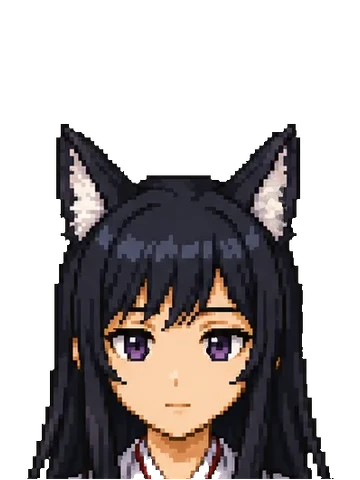
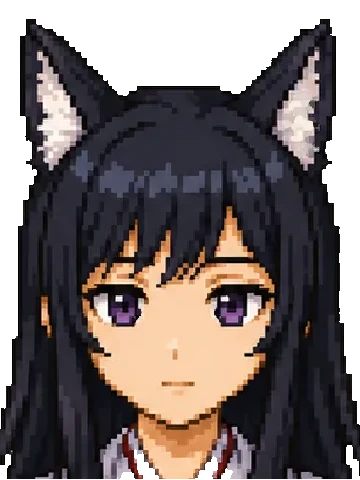
feat: 登場人物を里ごとに再構成・原作ロアの紹介文・ローディングを全環境で表示
- 登場人物: 酉花・イズナを大きいカード（ゲーム内の役どころ込みの長文）にし、
  以降は里ごとに3人ずつ（春・甲賀／夏・風魔／秋・雑賀／冬・伊賀）。
  紹介文はCryptoNinja公式ロア（cn-lore-mcp）＋ゲーム内の役割から執筆。
  里見出しの季節チップはゲーム内話しかけヒントと同じ配色
- 顔グラ14枚を高さ基準で再生成（nearest补間）。横広のイズナ・アウンは
  中央クロップで他キャラと顔の大きさを揃えた
- ローディング画面はprefers-reduced-motionでも表示する（進捗を伝える
  意味のある表示のため。本人環境=Windowsアニメ効果OFFで何も見えなかった
  問題の解決）。花の呼吸・花びら飛散などの装飾の動きだけ止める。
  見出しのスクロール出現も「フェードのみ」で全環境に出す

diff --git a/index.html b/index.html
@@ -287,27 +287,111 @@
       </section>
 
       <!-- ── 肆：登場人物 ──────────────────────── -->
+      <!-- 紹介文はCryptoNinja公式ロア（cn-lore-mcp・2026-08-04参照）＋ゲーム内の役どころ。
+           ロアの自由改変は公式ガイドラインで許容されているが、ここは原作準拠で書く -->
       <section class="section" id="chara">
         <h2 class="heading"><span class="heading__num">肆</span>登場人物</h2>
         <p class="section__lead">
           四つの里で出会う14人。話しかけると、それぞれの体の悩みを打ち明けてくれます。
         </p>
 
-        <ul class="chara-grid">
-          <li><img src="assets/face/torika.webp" alt="酉花（トリカ）" loading="lazy" /><span>酉花（トリカ）</span></li>
-          <li><img src="assets/face/izuna.webp" alt="イズナ" loading="lazy" /><span>イズナ</span></li>
-          <li><img src="assets/face/sakuya.webp" alt="咲耶（サクヤ）" loading="lazy" /><span>咲耶（サクヤ）</span></li>
-          <li><img src="assets/face/xiaolan.webp" alt="シャオラン" loading="lazy" /><span>シャオラン</span></li>
-          <li><img src="assets/face/nemu.webp" alt="ネム" loading="lazy" /><span>ネム</span></li>
-          <li><img src="assets/face/janome.webp" alt="蛇ノ目（ジャノメ）" loading="lazy" /><span>蛇ノ目（ジャノメ）</span></li>
-          <li><img src="assets/face/aum.webp" alt="アウン" loading="lazy" /><span>アウン</span></li>
-          <li><img src="assets/face/ibuki.webp" alt="イブキ" loading="lazy" /><span>イブキ</span></li>
-          <li><img src="assets/face/shiba.webp" alt="柴（シバ）" loading="lazy" /><span>柴（シバ）</span></li>
-          <li><img src="assets/face/nekomata.webp" alt="猫又（ねこまた）" loading="lazy" /><span>猫又（ねこまた）</span></li>
-          <li><img src="assets/face/benten.webp" alt="弁天（べんてん）" loading="lazy" /><span>弁天（べんてん）</span></li>
-          <li><img src="assets/face/anne.webp" alt="餡音（あんね）" loading="lazy" /><span>餡音（あんね）</span></li>
-          <li><img src="assets/face/yui.webp" alt="結（ゆい）" loading="lazy" /><span>結（ゆい）</span></li>
-          <li><img src="assets/face/hayate.webp" alt="ハヤテ" loading="lazy" /><span>ハヤテ</span></li>
+        <div class="chara-main">
+          <article class="chara-card">
+            <img src="assets/face/torika.webp" alt="酉花（トリカ）" loading="lazy" />
+            <div class="chara-card__body">
+              <span class="chara-card__role">主人公 ── 里をめぐるお薬屋さん</span>
+              <h3>酉花（トリカ）</h3>
+              <p>
+                伊賀の忍。得意の忍術は毒手裏剣で、名前は毒草トリカブトに由来──けれど本当は、花を育てることが好きな穏やかな女の子。毒と薬が紙一重なら、私は薬のほうを届けたい。畑を耕し、生薬を集め、処方を調合して、四つの里の「つらい」をひとつずつ癒やしてまわります。誕生日は8月9日、薬草の日。
+              </p>
+            </div>
+          </article>
+          <article class="chara-card">
+            <img src="assets/face/izuna.webp" alt="イズナ" loading="lazy" />
+            <div class="chara-card__body">
+              <span class="chara-card__role">案内役 ── 旅を見守る管狐使い</span>
+              <h3>イズナ</h3>
+              <p>
+                甲賀の忍で、宇迦の姉。管狐を操る秘術「飯綱の法」の使い手です。このゲームでは季節のどの里にも属さない案内役として、酉花の旅にそっと付き添います。困ったときに道をひらいてくれるのも、最後の報告を受け取ってくれるのも、この人。白と黒の小窓が出たら、それはイズナの声です。
+              </p>
+            </div>
+          </article>
+        </div>
+
+        <h3 class="chara-village" data-season="spring"><span>春</span>甲賀の里</h3>
+        <ul class="chara-grid chara-grid--bio">
+          <li>
+            <img src="assets/face/sakuya.webp" alt="咲耶（サクヤ）" loading="lazy" />
+            <span>咲耶（サクヤ）</span>
+            <p class="chara-bio">口寄せの術を操る、岩爺の孫。名は繁栄の女神コノハナサクヤヒメから。春の里で最初の依頼をくれる、収穫の知恵袋。</p>
+          </li>
+          <li>
+            <img src="assets/face/xiaolan.webp" alt="シャオラン" loading="lazy" />
+            <span>シャオラン</span>
+            <p class="chara-bio">口寄せでパンダの「リーリー」を呼び出す甲賀の忍。工房では調合の手ほどき役。頼れる里のお医者さん気質。</p>
+          </li>
+          <li>
+            <img src="assets/face/nemu.webp" alt="ネム" loading="lazy" />
+            <span>ネム</span>
+            <p class="chara-bio">絵筆の忍術「動植綵絵」を使う自由人。ひよこのピヨチとうさぎのウサピを連れて、遊び方をやさしく教えてくれます。</p>
+          </li>
+        </ul>
+
+        <h3 class="chara-village" data-season="summer"><span>夏</span>風魔の里</h3>
+        <ul class="chara-grid chara-grid--bio">
+          <li>
+            <img src="assets/face/janome.webp" alt="蛇ノ目（ジャノメ）" loading="lazy" />
+            <span>蛇ノ目（ジャノメ）</span>
+            <p class="chara-bio">白蛇の「オロチ」を口寄せする風魔の忍。どこか抜けていて、しばしばオロチに助けられている愛され者。</p>
+          </li>
+          <li>
+            <img src="assets/face/aum.webp" alt="アウン" loading="lazy" />
+            <span>アウン</span>
+            <p class="chara-bio">自らの体を巨大化させる怪力の忍で、アトザの弟。見た目は強面、夏バテには弱い。工房番もつとめます。</p>
+          </li>
+          <li>
+            <img src="assets/face/ibuki.webp" alt="イブキ" loading="lazy" />
+            <span>イブキ</span>
+            <p class="chara-bio">呪符を操る風魔の術者。相棒「ヤーマ」は本人の力量に合わせて姿が変わる決まりで、いまは愛らしい姿。</p>
+          </li>
+        </ul>
+
+        <h3 class="chara-village" data-season="autumn"><span>秋</span>雑賀の里</h3>
+        <ul class="chara-grid chara-grid--bio">
+          <li>
+            <img src="assets/face/shiba.webp" alt="柴（シバ）" loading="lazy" />
+            <span>柴（シバ）</span>
+            <p class="chara-bio">ふだんは犬の姿、いざとなれば忍術で人型に変化する水遁の使い手。薬を届けた人にだけ、本当の姿を見せてくれるかも。</p>
+          </li>
+          <li>
+            <img src="assets/face/nekomata.webp" alt="猫又（ねこまた）" loading="lazy" />
+            <span>猫又（ねこまた）</span>
+            <p class="chara-bio">影分身と妖刀村正を操る猫の忍。魚介類に目がない食いしん坊で、乾いた秋は喉の調子が気になるお年頃。</p>
+          </li>
+          <li>
+            <img src="assets/face/benten.webp" alt="弁天（べんてん）" loading="lazy" />
+            <span>弁天（べんてん）</span>
+            <p class="chara-bio">三味線と祝詞をたしなむ姐さん。頭領の孫市から里の管理を任されている、雑賀のまとめ役です。</p>
+          </li>
+        </ul>
+
+        <h3 class="chara-village" data-season="winter"><span>冬</span>伊賀の里</h3>
+        <ul class="chara-grid chara-grid--bio">
+          <li>
+            <img src="assets/face/anne.webp" alt="餡音（あんね）" loading="lazy" />
+            <span>餡音（あんね）</span>
+            <p class="chara-bio">団子の串を武器に影縫いの術を放つ、陽気なお調子者。寒い里に、あたたかい笑い声を響かせます。</p>
+          </li>
+          <li>
+            <img src="assets/face/yui.webp" alt="結（ゆい）" loading="lazy" />
+            <span>結（ゆい）</span>
+            <p class="chara-bio">桜吹雪の術で後方支援に徹する、岩爺の孫。前には出ないけれど、里のみんなをそっと支えるタイプ。</p>
+          </li>
+          <li>
+            <img src="assets/face/hayate.webp" alt="ハヤテ" loading="lazy" />
+            <span>ハヤテ</span>
+            <p class="chara-bio">鷹の「ナルカミ」を相棒にする、伊賀の師匠格。鷹の目で里を見渡しながら、冬の工房を守っています。</p>
+          </li>
         </ul>
 
         <p class="section__foot">
@@ -445,14 +529,8 @@
       //   ・回線が遅くても最長4秒で必ず打ち切る（ローディングに閉じ込めない）
       ;(function () {
         var curtain = document.getElementById('curtain')
-        var reduce = window.matchMedia('(prefers-reduced-motion: reduce)').matches
-
-        if (reduce) {
-          curtain.parentNode.removeChild(curtain)
-          document.body.classList.add('is-ready')
-          return
-        }
-
+        // ローディング画面は「進捗を伝える意味のある表示」なので、動きを減らす設定でも出す
+        // （2026-08-04本人判断で変更。花の呼吸・花びらの飛散などの装飾はCSS側のreduceで止まる）
         var flower = document.getElementById('curtainFlower')
         var label = document.getElementById('curtainSeason')
         var bar = document.getElementById('curtainBar')
@@ -533,8 +611,8 @@
       // 見出し・リード文が画面に入ったとき、下からすっと立ち上がる。
       // 隠すクラスはJSが動いてから付ける＝JS無効・IO非対応では最初から見えている
       ;(function () {
-        var reduce = window.matchMedia('(prefers-reduced-motion: reduce)').matches
-        if (reduce || !('IntersectionObserver' in window)) return
+        // 動きを減らす設定でも「フェードのみ」で出す（transformはCSSのreduce側で無効化）
+        if (!('IntersectionObserver' in window)) return
         var els = document.querySelectorAll('.heading, .section__lead, .section__foot')
         els.forEach(function (el) {
           el.classList.add('will-reveal')

diff --git a/style.css b/style.css
@@ -914,6 +914,98 @@ body[data-season='autumn'] { background-color: #1e1610; }
 body[data-season='winter'] { background-color: #14171a; }
 
 /* ── 肆：登場人物 ─────────────────────────────────── */
+
+/* 主役2人の大きいカード（酉花・イズナ） */
+.chara-main {
+  display: grid;
+  grid-template-columns: 1fr 1fr;
+  gap: clamp(14px, 2.5vw, 24px);
+  margin-bottom: clamp(28px, 5vw, 44px);
+}
+
+.chara-card {
+  display: flex;
+  gap: clamp(14px, 2vw, 20px);
+  padding: clamp(16px, 2.5vw, 24px);
+  background: rgba(42, 35, 26, 0.5);
+  border: 1px solid rgba(201, 162, 74, 0.4);
+  border-radius: 3px;
+}
+
+.chara-card img {
+  width: clamp(110px, 12vw, 150px);
+  aspect-ratio: 3 / 4;
+  object-fit: contain;
+  image-rendering: pixelated;
+  flex-shrink: 0;
+  border: 1px solid rgba(201, 162, 74, 0.3);
+  border-radius: 2px;
+  background: linear-gradient(180deg, rgba(42, 35, 26, 0.85), rgba(20, 17, 13, 0.85));
+}
+
+.chara-card__role {
+  display: block;
+  font-family: var(--font-display);
+  font-size: 0.72rem;
+  font-weight: 700;
+  letter-spacing: 0.12em;
+  color: var(--shu-light);
+  margin-bottom: 4px;
+}
+
+.chara-card__body h3 {
+  font-family: var(--font-display);
+  font-size: clamp(1.15rem, 2.6vw, 1.4rem);
+  color: var(--kin-light);
+  margin: 0 0 8px;
+}
+
+.chara-card__body p {
+  margin: 0;
+  font-size: 0.88rem;
+  line-height: 1.85;
+}
+
+/* 里ごとの小見出し。季節チップの配色はゲーム内の話しかけヒントと同じ
+   （春=ピンク／夏=青／秋=黄／冬=緑） */
+.chara-village {
+  display: flex;
+  align-items: center;
+  gap: 12px;
+  font-family: var(--font-display);
+  font-size: clamp(1.05rem, 2.4vw, 1.25rem);
+  color: var(--kinari);
+  margin: clamp(28px, 5vw, 40px) 0 14px;
+}
+
+.chara-village span {
+  font-size: 0.8em;
+  line-height: 1.7;
+  padding: 1px 11px;
+  border-radius: 2px;
+  border: 1px solid;
+}
+
+.chara-village[data-season='spring'] span { color: #e88aa8; border-color: rgba(232, 138, 168, 0.6); }
+.chara-village[data-season='summer'] span { color: #6fb1d8; border-color: rgba(111, 177, 216, 0.6); }
+.chara-village[data-season='autumn'] span { color: #d8b24a; border-color: rgba(216, 178, 74, 0.6); }
+.chara-village[data-season='winter'] span { color: #7cbf8e; border-color: rgba(124, 191, 142, 0.6); }
+
+/* 見出しの右に細罫を伸ばす（.headingと同じ意匠の弱い版） */
+.chara-village::after {
+  content: '';
+  flex: 1;
+  height: 1px;
+  background: linear-gradient(90deg, rgba(201, 162, 74, 0.3), transparent);
+}
+
+.chara-bio {
+  margin: 6px 0 0;
+  font-size: 0.78rem;
+  line-height: 1.75;
+  color: var(--muted);
+  text-align: left;
+}
 .chara-grid {
   list-style: none;
   margin: 0;
@@ -1156,6 +1248,15 @@ body[data-season='winter'] { background-color: #14171a; }
     grid-template-columns: repeat(auto-fill, minmax(118px, 1fr));
   }
 
+  /* 里ごとの3人組は狭い画面でも3列を保つ（1人だけ下に落ちると里の区切りが崩れる） */
+  .chara-grid--bio {
+    grid-template-columns: repeat(3, 1fr);
+  }
+
+  .chara-main {
+    grid-template-columns: 1fr;
+  }
+
   .season,
   .season:nth-child(even) {
     grid-template-columns: 1fr;
@@ -1211,11 +1312,17 @@ body[data-season='winter'] { background-color: #14171a; }
     display: none;
   }
 
-  /* 幕開けはJS側で丸ごと出さないが、万一残っても動かないようにしておく */
-  .curtain,
-  .curtain__flower {
+  /* ローディング画面自体は出す（進捗を伝える意味のある表示）。
+     花の呼吸・花びらの飛散などの装飾の動きだけ止める */
+  .curtain__flower,
+  .curtain.is-bursting .curtain__burst span {
     animation: none;
-    transition: none;
+  }
+
+  /* 見出しは「フェードのみ」で出す（縦の移動は止める） */
+  .will-reveal {
+    transform: none;
+    transition: opacity 0.7s ease;
   }
 
   /* 敷き絵は動かさず中央で止める（スクロール追従が酔いの原因になりうるため） */
